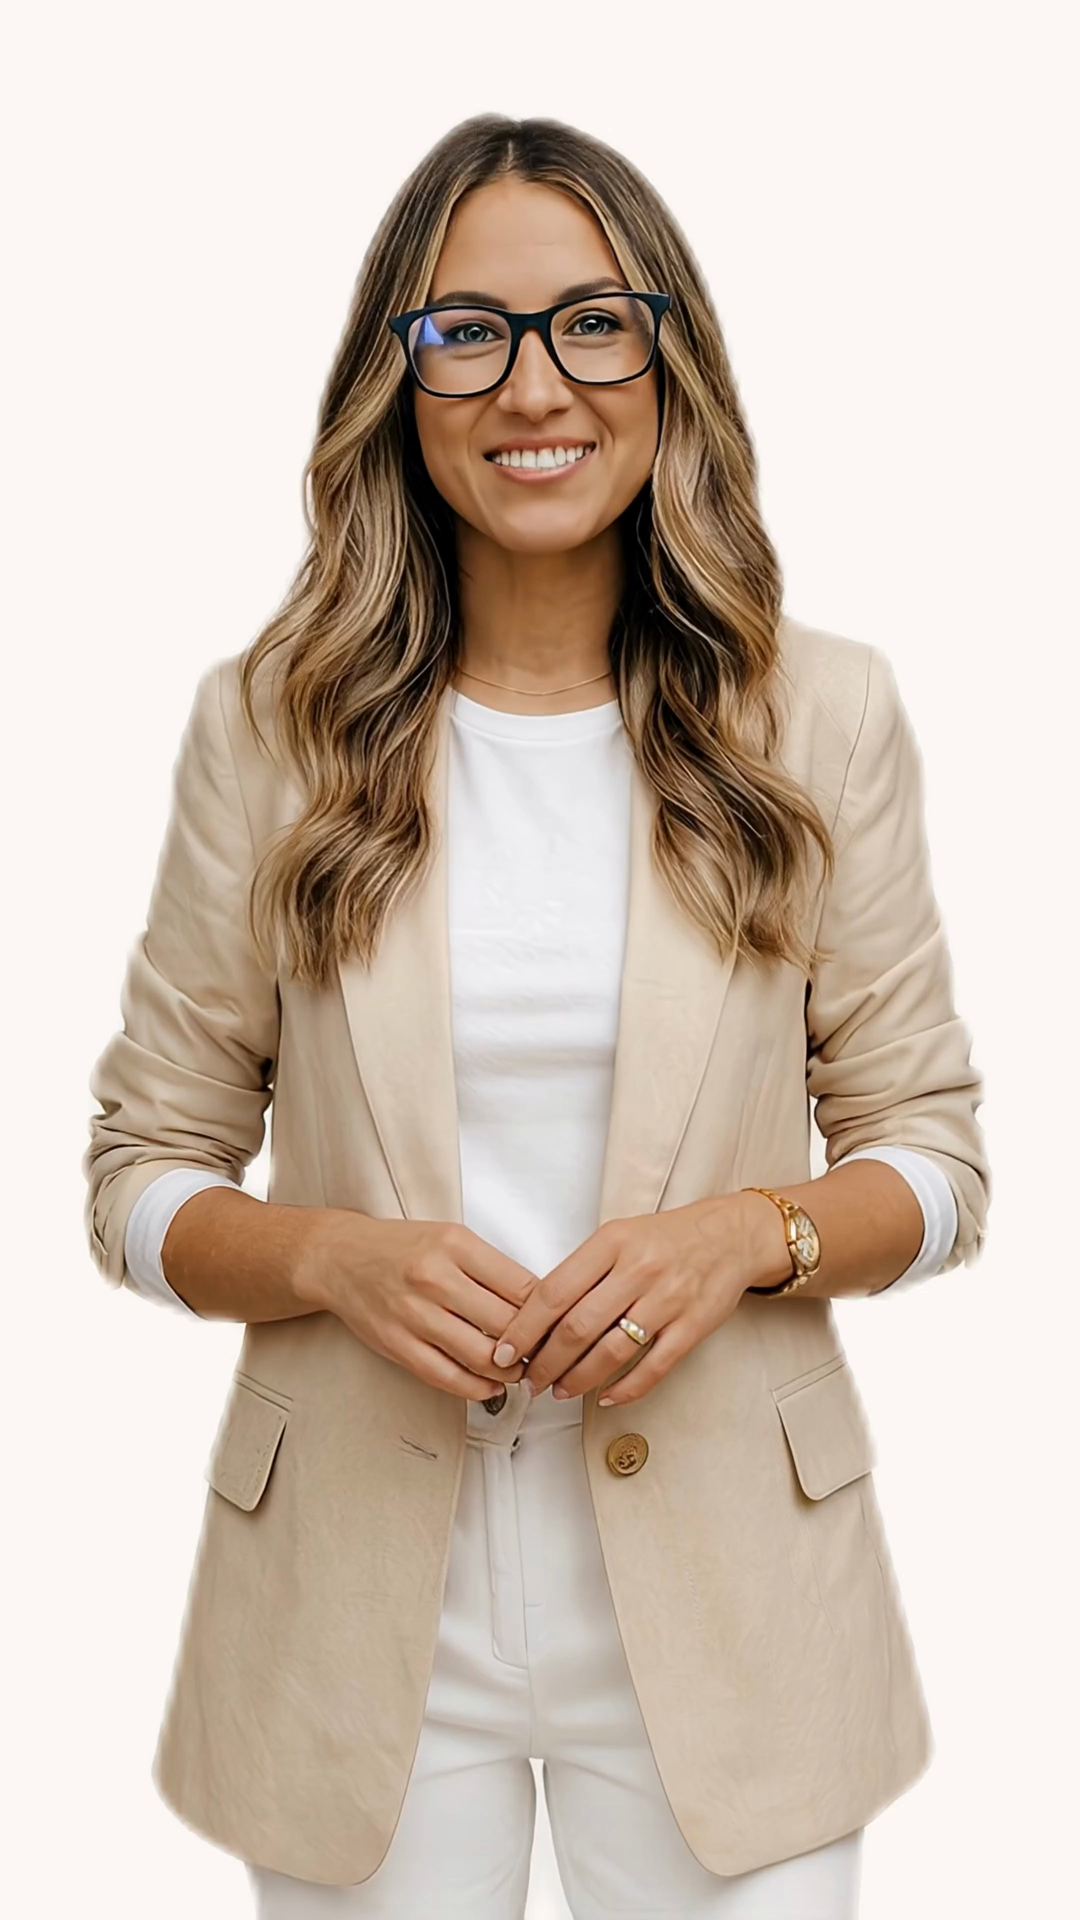
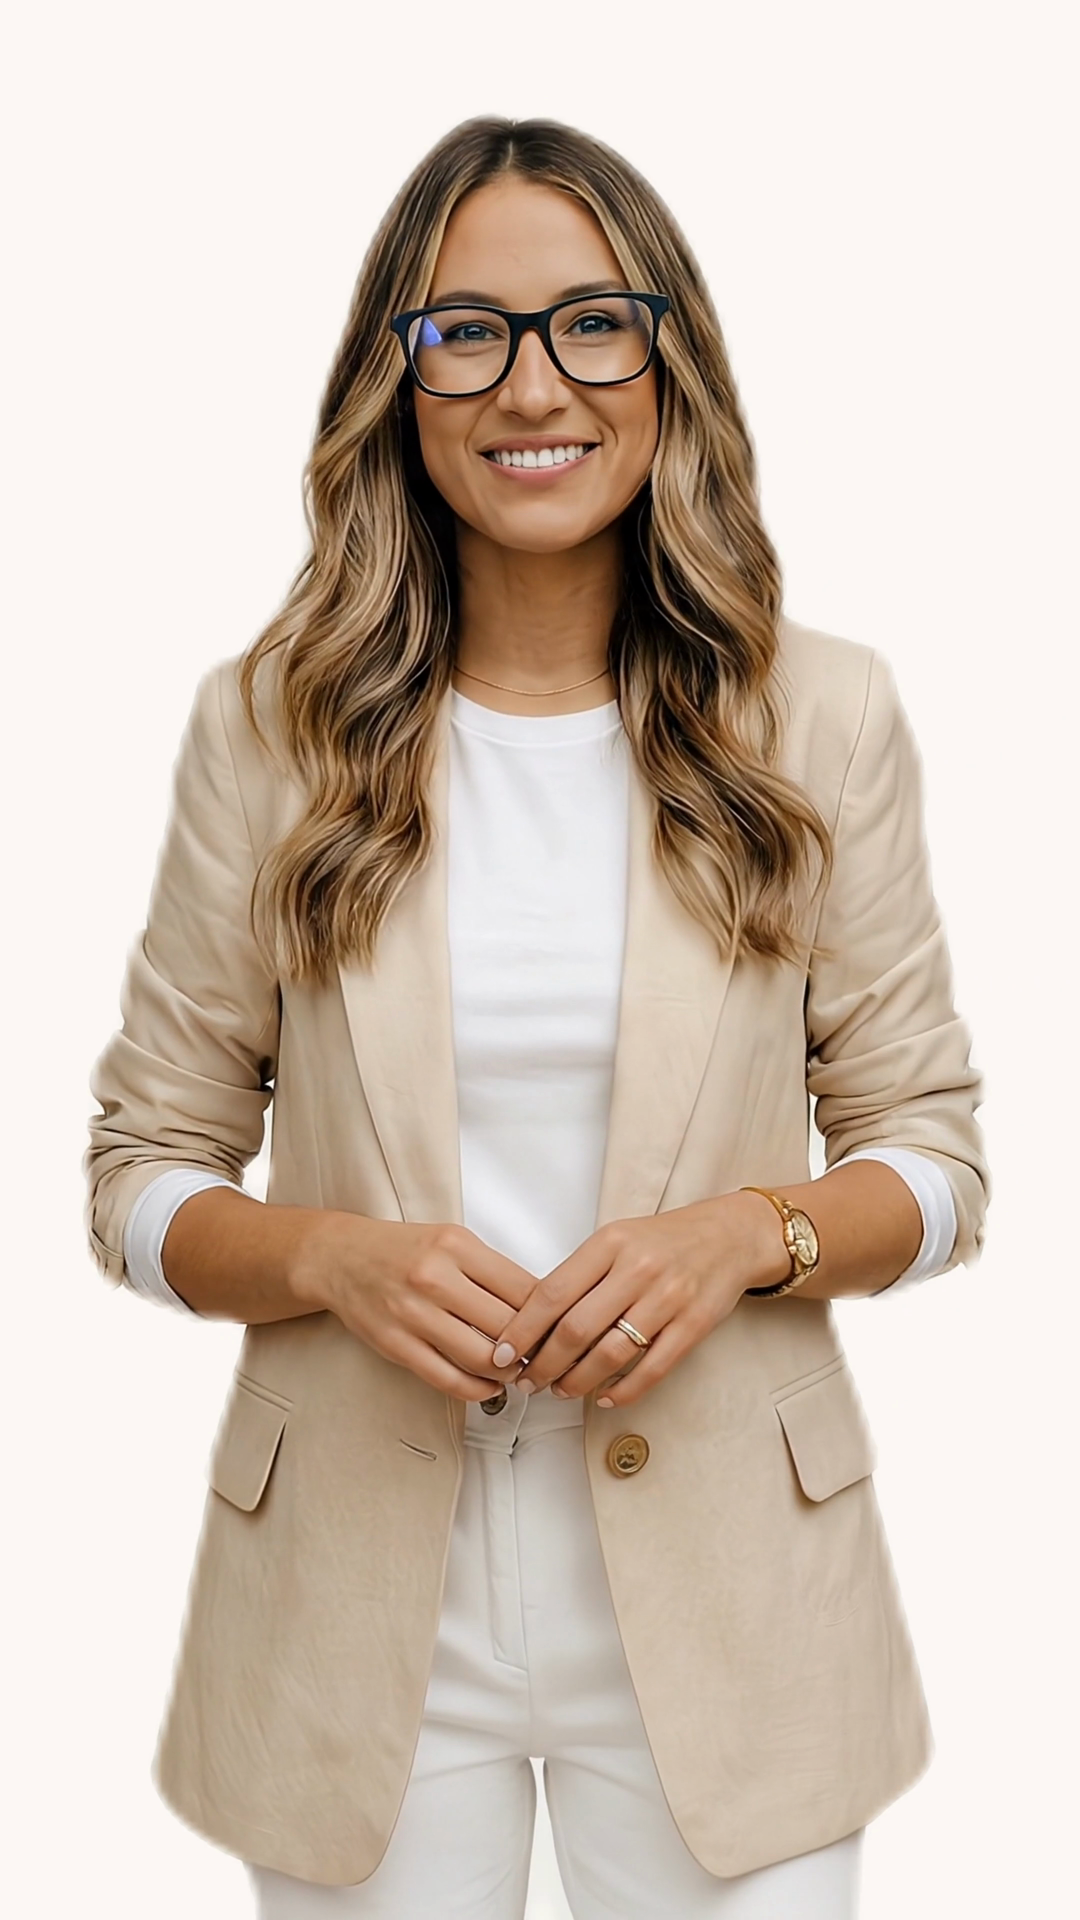
🐛 Fix video zoom-out glitch on step transitions
- Remove video fade-out effect that revealed mismatched fallback image
- Match fallback image CSS (object-fit, position) to video element
- Replace fallback image with actual last frame from video
- Keep backdrop visible during question transitions

diff --git a/src/components/VideoAvatar/VideoAvatar.tsx b/src/components/VideoAvatar/VideoAvatar.tsx
@@ -65,17 +65,8 @@ export const VideoAvatar: React.FC<VideoAvatarProps> = ({
   const isPaused = videoState === VideoState.PAUSED;
   const showVideo = isReady || isPlaying || isPaused || isEnded;
 
-  // Calculate video opacity - only fade out near end, no fade in
-  const FADE_DURATION = 0.5;
-  let videoOpacity = 1;
-  if (hasError) {
-    videoOpacity = 0;
-  } else if (isPlaying && duration > 0) {
-    // Fade out during last 0.5s
-    if (currentTime > duration - FADE_DURATION) {
-      videoOpacity = (duration - currentTime) / FADE_DURATION;
-    }
-  }
+  // Video opacity - no fade out, just hide on error
+  const videoOpacity = hasError ? 0 : 1;
 
   return (
     <div className={`${styles.avatarContainer} ${className || ''}`}>

diff --git a/src/components/VideoAvatar/VideoAvatar.module.css b/src/components/VideoAvatar/VideoAvatar.module.css
@@ -41,13 +41,13 @@
 
 .avatarImage {
   position: absolute;
-  top: 0;
+  top: -2px;
   left: 0;
   display: block;
   width: 100%;
-  height: 100%;
-  object-fit: contain; /* Match video behavior */
-  object-position: center center;
+  height: calc(100% + 2px);
+  object-fit: cover; /* Match video element */
+  object-position: center top; /* Match video element */
   z-index: 1; /* Below video */
 }
 
